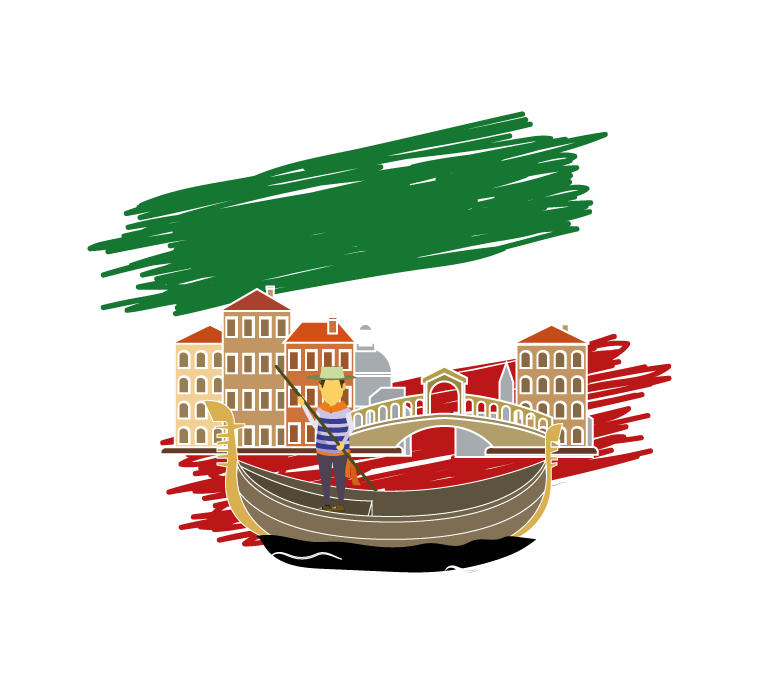
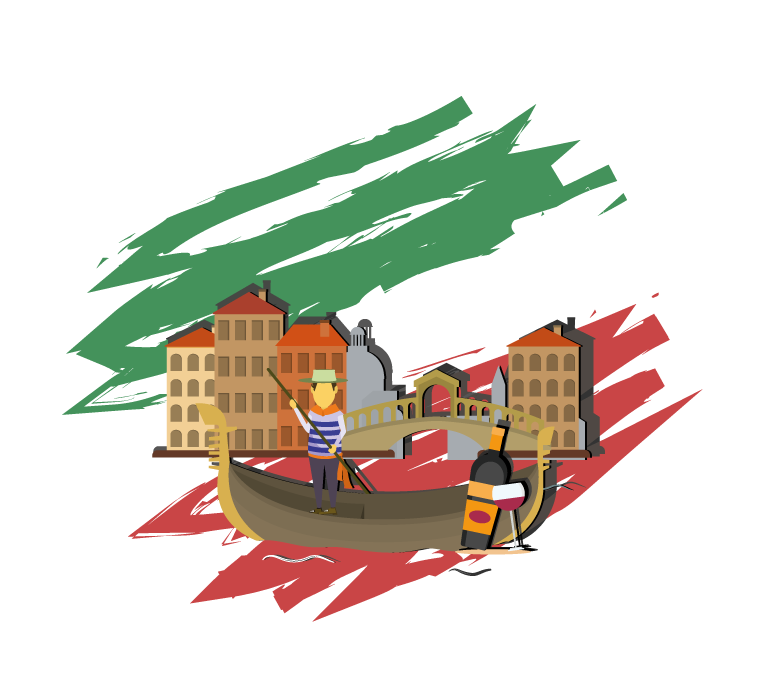
add new illustrations

Changed region(s): [[0.0909, 0.1223, 0.9091, 0.917]]

diff --git a/french.html b/french.html
@@ -33,7 +33,7 @@
 
             <div class="block one">
                 <div class="block-img">
-                    <img src="img/espanol-illustration.png">
+                    <img src="img/presentation.png">
                 </div>
                 <div class="block-text">
                     <h3>Presentation</h3>
@@ -50,7 +50,7 @@
 
             <div class="block two">
                 <div class="block-img">
-                    <img src="./img/Italiano-illustration.png">
+                    <img src="./img/helpful.png">
                 </div>
                 <div class="block-text">
                     <h3>Helpful</h3>
@@ -69,7 +69,7 @@
 
             <div class="block three">
                 <div class="block-img">
-                    <img src="img/espanol-illustration.png">
+                    <img src="img/goodluck.png">
                 </div>
                 <div class="block-text">
                     <h3>Well Wishes</h3>

diff --git a/italian.html b/italian.html
@@ -33,7 +33,7 @@
 
             <div class="block one">
                 <div class="block-img">
-                    <img src="img/espanol-illustration.png">
+                    <img src="img/presentation.png">
                 </div>
                 <div class="block-text">
                     <h3>Presentation</h3>
@@ -50,7 +50,7 @@
 
             <div class="block two">
                 <div class="block-img">
-                    <img src="./img/Italiano-illustration.png">
+                    <img src="./img/helpful.png">
                 </div>
                 <div class="block-text">
                     <h3>Helpful</h3>
@@ -69,7 +69,7 @@
 
             <div class="block three">
                 <div class="block-img">
-                    <img src="img/espanol-illustration.png">
+                    <img src="img/goodluck.png">
                 </div>
                 <div class="block-text">
                     <h3>Well Wishes</h3>

diff --git a/spanish.html b/spanish.html
@@ -33,7 +33,7 @@
 
             <div class="block one">
                 <div class="block-img">
-                    <img src="img/espanol-illustration.png">
+                    <img src="img/presentation.png">
                 </div>
                 <div class="block-text">
                     <h3>Presentation</h3>
@@ -50,7 +50,7 @@
 
             <div class="block two">
                 <div class="block-img">
-                    <img src="./img/Italiano-illustration.png">
+                    <img src="./img/helpful.png">
                 </div>
                 <div class="block-text">
                     <h3>Helpful</h3>
@@ -69,7 +69,7 @@
 
             <div class="block three">
                 <div class="block-img">
-                    <img src="img/espanol-illustration.png">
+                    <img src="img/goodluck.png">
                 </div>
                 <div class="block-text">
                     <h3>Well Wishes</h3>

diff --git a/index.html b/index.html
@@ -45,7 +45,7 @@
 
             <div class="languagelist">
                 <a href="french.html">
-                    <img src="img/espanol-illustration.png" alt="Catalan illustration">
+                    <img src="img/french-illustration.png" alt="Catalan illustration">
                     <p>FRENCH</p>
                 </a>
             </div>
